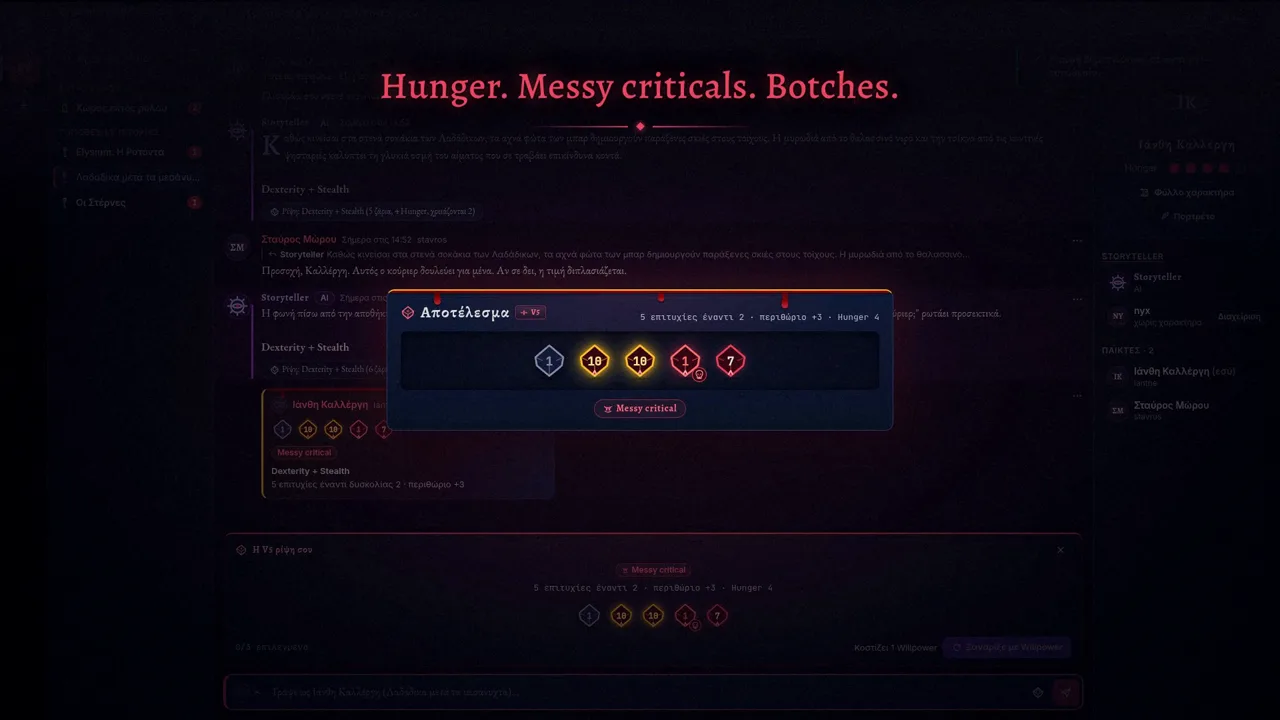
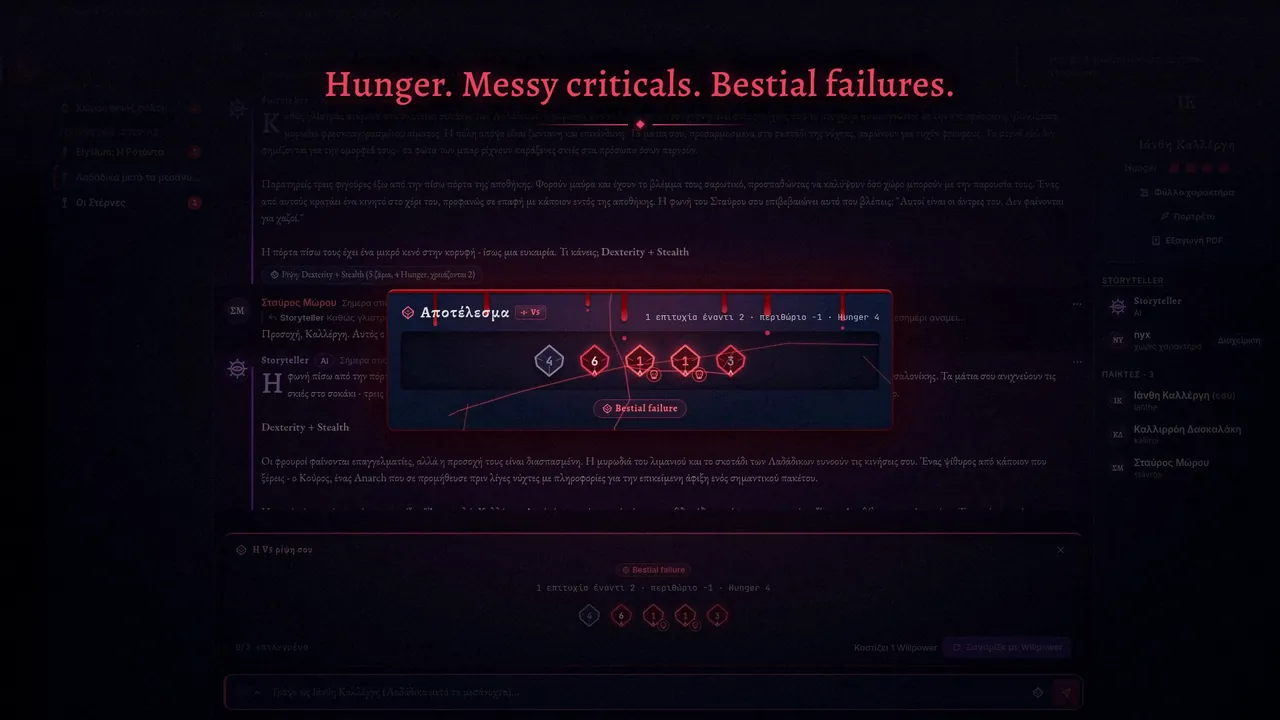
readme: trailer v2 (2:30, English and Greek), its preview, how it was made
The README links the trailer-v0.14.0 release (English and Greek, 2:30) with a
new preview: the bestial failure and /ai explain, 960 px, under 1 MB. New
posters. TRAILER_PLAN.md gets a v2 section (what's in it, how it was made,
the tools); v1 stays below it. docs/README and the changelog point to it.

diff --git a/docs/video/TRAILER_PLAN.md b/docs/video/TRAILER_PLAN.md
@@ -1,8 +1,65 @@
-# ShadowRealms AI trailer: plan
+# ShadowRealms AI trailer
+
+Two trailers so far, both in English and Greek, both made with the scripts in `tools/trailer/`:
+
+- **v2** (2026-10-16, app v0.14.0, 2:30): https://github.com/Somnius/shadowrealms-ai/releases/tag/trailer-v0.14.0
+- **v1** (2026-10-04, app v0.10.0, 2:00): https://github.com/Somnius/shadowrealms-ai/releases/tag/trailer-v0.10.0
+
+## Trailer v2 (v0.14.0)
+
+Status: **done** (2026-10-16). 150 s, 1920×1080, 60 fps, H.264, English and Greek renders. The timing contract is `tools/trailer/CUES_v2.md`, the cut `tools/trailer/timeline_v2.json`, the recordings `tools/trailer/record_v2.mjs`, the score `tools/trailer/music/` (preset `v2`).
+
+### What's in it
+
+| Time | Scene | Source |
+|---|---|---|
+| 0:00 | Intro: the login page's sigil draws, the wordmark | v1 footage |
+| 0:08 | Sign-in, the hall opens | v1 |
+| 0:15 | New chronicle: Classic or V5 | v1 |
+| 0:27 | The Storyteller sets the chronicle's character creation rules: allowed clans (Hecata in, Caitiff and Thin-blood out), neonates only, a house rule | new |
+| 0:35 | Guided mode: a new player answers the eight questions, the guide suggests Hecata · Grim Reaper | new |
+| 0:47 | The forge with the guide's prefill: the clan card, the Oblivion power list and its description with book and page, the Summon Spirit ceremony, the predator preview, Backgrounds from the catalog, then the finished sheet | new |
+| 1:01 | Play: the Storyteller answers and asks for Dexterity + Stealth with 4 Hunger | new |
+| 1:17 | The roll from the chip: a **bestial failure** on the big hit (1:25.000) | new |
+| 1:26 | `/ai explain` on the dice card: the counting and the result, page by page | new, same take |
+| 1:36 | A Classic **botch** on the second hit (1:39.000) | new |
+| 1:42 | English and Greek in the same chronicle | v1 |
+| 1:52 | Laya flags an in-character line in the OOC room; admin pages | v1 |
+| 2:01 | Export PDF: the real exported sheet, page 1 and the Reference page | new |
+| 2:07 | The theme showcase: the switch to Full atmosphere lands on the theme's downbeat (2:08.000), glyphs, clan sigils, Subtle, Off, the dice editions | new |
+| 2:22 | Outro: Enter the night, run it on your own server, the GitHub link | v1 card |
+
+Captions: 13, English and Greek, game terms in English in both; Greek is set in Alegreya / EB Garamond, never Cinzel.
+
+### How it was made
+
+The same way as v1 (below): a separate demo copy of the stack with its own database (project `srdemo`, loopback ports only), headless Chromium driven over the DevTools protocol at 1920×1080, frames captured with their compositor timestamps and turned into 60 fps, an original score generated from code, ffmpeg for the edit.
+
+- The demo stack ran the v0.14.0 backend and frontend, with the v1 accounts, chronicles and characters plus a fourth player, `kalliroi`, who made her Hecata *Kalliroi Daskalaki* (Grim Reaper, Oblivion, an undertaker who talks to the dead) on camera: Guided mode, then the forge, then the sheet, in one take.
+- Real results only. The Storyteller lines come from Llama-Krikri running locally; the dice are server rolls, rolled until the wanted result landed. V5 bestial failure: English on take 5, then again on take 2 of a retake (the script that opens the `/ai explain` card failed on the first one), Greek on take 4. Classic botch: English take 2, Greek take 3. The Storyteller's roll chip came on its first reply in both languages. Every take is logged by the recorder.
+- The hits are frame-exact: the first frame showing "Result" is pinned to 1:25.000 and 1:39.000, the first frame of the Full switch to 2:08.000 (checked frame by frame on the review sheets), and `check_hits.py` measured the hits in the rendered audio at 85.000, 99.000 and 128.000 s.
+- The forge, Guided and explain shots are zoomed in (static crops) so their text can be read. The PDF shot is the file the app downloaded, rendered page by page at 300 dpi.
+- Score: 150 s, the v1 instruments and motif with new cue times, −14 LUFS integrated, true peak below −1 dBTP.
+
+### Tools
+
+```sh
+# demo stack for one language (from a worktree: DEMO_ROOT=<main checkout>), then the recordings
+DEMO_ROOT=<main checkout> TRAILER_DATA=data/trailer-v2 RESYNC=1 tools/trailer/reset_demo.sh en
+TRAILER_DATA=data/trailer-v2 taskset -c 0-15 nice -n 10 node tools/trailer/record_v2.mjs en
+# reused v1 clips, cut and render, then measure the hits
+python3 tools/trailer/reuse_v1.py --timeline tools/trailer/timeline_v2.json --from <main checkout>/data/trailer
+taskset -c 0-15 nice -n 10 python3 tools/trailer/edit.py --timeline tools/trailer/timeline_v2.json --lang both --final
+uv run --with numpy --with scipy --with soundfile python3 tools/trailer/check_hits.py data/trailer-v2/out/trailer_en_1080p60.mp4
+# remove the demo stack and its data
+DEMO_ROOT=<main checkout> TRAILER_DATA=data/trailer-v2 tools/trailer/demo-down.sh --purge
+```
+
+## Trailer v1 (v0.10.0)
 
 Status: **done** (2026-10-04). Published at https://github.com/Somnius/shadowrealms-ai/releases/tag/trailer-v0.10.0 (English and Greek). The scripts are in `tools/trailer/` (`CUES.md`, `timeline.json`, `edit.py`, `record.mjs`, `music/compose.py`).
 
-## What was decided (2026-10-04)
+### What was decided (2026-10-04)
 
 | | |
 |---|---|
@@ -15,7 +72,7 @@ Status: **done** (2026-10-04). Published at https://github.com/Somnius/shadowrea
 | Style | Sigil intro, title card, URL outro; fog, film grain, vignette, blood-red accents, Cinzel captions |
 | Where it's recorded | **A separate demo copy of the stack** with its own database; the live site and its data aren't touched |
 
-## Shot list (English version; the Greek one follows the same cuts)
+### Shot list (English version; the Greek one follows the same cuts)
 
 Times are targets; the edit will move them by a second or two to sit on the music.
 
@@ -34,7 +91,7 @@ Times are targets; the edit will move them by a second or two to sit on the musi
 
 Game terms stay in English in the Greek captions (Hunger, messy critical, botch), the same rule the app's Greek UI follows.
 
-## Demo data (in the separate stack only)
+### Demo data (in the separate stack only)
 
 All made up for the trailer:
 
@@ -47,7 +104,7 @@ All made up for the trailer:
   - **Brother Anselm**, Classic Tremere, a scholar-monk of Mistra (the botch shot).
 - Some earlier chat so the rooms don't look empty.
 
-## How it gets made
+### How it gets made
 
 1. **Demo stack.** A second Docker Compose project with its own PostgreSQL, Redis, ChromaDB, backend and nginx on other localhost ports (e.g. 127.0.0.1:8180), the same LM Studio and Ollama. The demo data is created through the app's API. Deleted afterwards.
 2. **Recording.** A script drives Chromium at exactly 1920×1080 (no desktop, no notifications) and captures frames over the DevTools protocol; typing and clicks are scripted, so every take is the same. Frames are turned into constant 60 fps with ffmpeg.
@@ -57,13 +114,13 @@ All made up for the trailer:
 6. **Edit and render.** ffmpeg: cuts, cross-fades, speed-ups for the forge, grain and vignette, fades. GPU encoding (NVENC) for drafts, a final x264 render. Machine limits as always: under 80% CPU, capped containers.
 7. **Review.** You get both drafts to watch; changes, then the final.
 
-## Where it goes
+### Where it goes
 
 - Both MP4s attached to a GitHub release (direct download and playable in the browser) and linked from the README's "Demo video" section, plus a poster frame image in the README.
 - YouTube: you upload it (I have no access to your channel); I'll prepare the title, description and chapters text in both languages.
 - The scripts that build it (demo stack, recording, music, edit) go in the repo, so it can be re-made for later versions. The rendered files stay out of git.
 
-## Things to confirm before go
+### Things to confirm before go
 
 1. **Captions:** the wording above, English and Greek. Change anything you like.
 2. ~~Demo names~~: decided, made up (see Demo data).

diff --git a/README.md b/README.md
@@ -17,11 +17,11 @@
 
 ### ▶ Watch the trailer
 
-[![Trailer preview: a V5 roll lands a messy critical with the blood-red flash](assets/trailer/trailer-preview.webp)](https://github.com/Somnius/shadowrealms-ai/releases/download/trailer-v0.10.0/trailer_en_1080p60.mp4)
+[![Trailer preview: a V5 roll from the Storyteller's roll chip ends in a bestial failure, then /ai explain on the dice card](assets/trailer/trailer-preview.webp)](https://github.com/Somnius/shadowrealms-ai/releases/download/trailer-v0.14.0/trailer_en_1080p60.mp4)
 
-**[English (2 min)](https://github.com/Somnius/shadowrealms-ai/releases/download/trailer-v0.10.0/trailer_en_1080p60.mp4)** · **[Ελληνικά (2 λεπτά)](https://github.com/Somnius/shadowrealms-ai/releases/download/trailer-v0.10.0/trailer_el_1080p60.mp4)** · [release page](https://github.com/Somnius/shadowrealms-ai/releases/tag/trailer-v0.10.0)
+**[English (2:30)](https://github.com/Somnius/shadowrealms-ai/releases/download/trailer-v0.14.0/trailer_en_1080p60.mp4)** · **[Ελληνικά (2:30)](https://github.com/Somnius/shadowrealms-ai/releases/download/trailer-v0.14.0/trailer_el_1080p60.mp4)** · [release page](https://github.com/Somnius/shadowrealms-ai/releases/tag/trailer-v0.14.0)
 
-<sub>Recorded on a fresh copy of the app: real AI Storyteller replies from a local model, real server dice rolls, original score.</sub>
+<sub>Recorded on a demo copy of the app: real AI Storyteller replies from a local model, real server dice rolls, original score. The first trailer (v0.10.0) is still <a href="https://github.com/Somnius/shadowrealms-ai/releases/tag/trailer-v0.10.0">here</a>.</sub>
 
 </div>
 

diff --git a/docs/README.md b/docs/README.md
@@ -54,5 +54,5 @@ Index of the documentation in this folder (current release: v0.14.1). The [proje
 
 - [Wiki](https://github.com/Somnius/shadowrealms-ai/wiki): installation, configuration, AI models, rules editions, World of Darkness books, architecture, development and CI, security, troubleshooting
 - [Issues](https://github.com/Somnius/shadowrealms-ai/issues): bug reports and feature requests
-- [Trailer](https://github.com/Somnius/shadowrealms-ai/releases/tag/trailer-v0.10.0) (v0.10.0, English and Greek; how it was made: [video/TRAILER_PLAN.md](video/TRAILER_PLAN.md))
+- [Trailer](https://github.com/Somnius/shadowrealms-ai/releases/tag/trailer-v0.14.0) (v0.14.0, 2:30, English and Greek; the first one: [trailer-v0.10.0](https://github.com/Somnius/shadowrealms-ai/releases/tag/trailer-v0.10.0); how they were made: [video/TRAILER_PLAN.md](video/TRAILER_PLAN.md))
 - [Old demo video](../demo/README.md) (from v0.7.0)

diff --git a/docs/CHANGELOG.md b/docs/CHANGELOG.md
@@ -7,6 +7,9 @@ and this project adheres to [Semantic Versioning](https://semver.org/spec/v2.0.0
 
 ## [Unreleased]
 
+### Added
+- Trailer v2 (2:30, English and Greek, release `trailer-v0.14.0`): creation rules, Guided mode, the new forge, a real bestial failure with `/ai explain`, a Classic botch, the PDF sheet and the showcase, recorded from a demo copy of the app; the README preview is replaced. Made with `tools/trailer/record_v2.mjs`, `timeline_v2.json` and the v2 score preset, see docs/video/TRAILER_PLAN.md.
+
 ## [0.14.1] - 2026-10-16 - House rulings
 
 ### Changed
